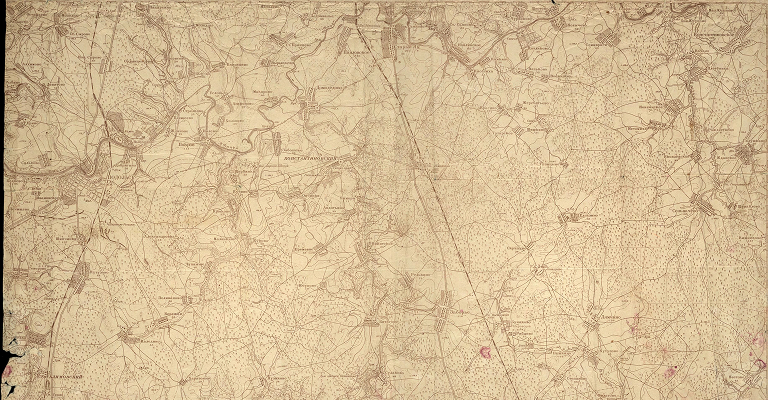
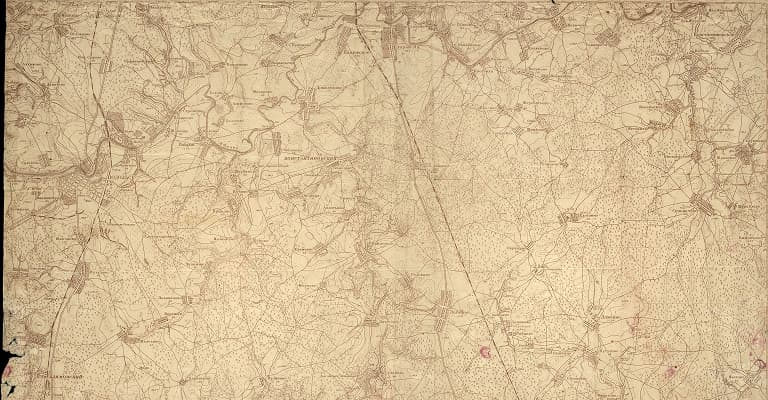
Добавляет фотографии man

diff --git a/src/shared/data/men-data.js b/src/shared/data/men-data.js
@@ -2,7 +2,6 @@ export const menData = [
   {
     id: 'c64646ce6d574a5db32e31f9615033b3',
     path: '/img/men/man01.jpg',
-    pathWebp: '/img/men/man01.webp',
     alt: 'Фотография мужчин',
     width: '260',
     height: '347'
@@ -10,7 +9,6 @@ export const menData = [
     {
     id: 'c2e92736b5e841c0b1c746814dedb324',
     path: '/img/men/man02.jpg',
-    pathWebp: '/img/men/man02.webp',
     alt: 'Фотография мужчин',
     width: '260',
     height: '347'
@@ -18,7 +16,6 @@ export const menData = [
   {
     id: '8af633251f7b47ffa271e700da486c42',
     path: '/img/men/man03.jpg',
-    pathWebp: '/img/men/man03.webp',
     alt: 'Фотография мужчин',
     width: '260',
     height: '347'
@@ -26,7 +23,6 @@ export const menData = [
   {
     id: 'ba8cbb4074164a6ba6abee0eeff742d3',
     path: '/img/men/man04.jpg',
-    pathWebp: '/img/men/man04.webp',
     alt: 'Фотография мужчин',
     width: '260',
     height: '347'
@@ -34,7 +30,6 @@ export const menData = [
   {
     id: 'c64646ce6d574a5db32e31f961504558',
     path: '/img/men/man05.jpg',
-    pathWebp: '/img/men/man05.webp',
     alt: 'Фотография мужчин',
     width: '260',
     height: '347'
@@ -42,7 +37,6 @@ export const menData = [
     {
     id: 'c64646ce6d574a5db32e31f9615fhegd8',
     path: '/img/men/man06.jpg',
-    pathWebp: '/img/men/man06.webp',
     alt: 'Фотография мужчин',
     width: '260',
     height: '347'
@@ -50,7 +44,6 @@ export const menData = [
     {
     id: 'c2e92736b5e841c0b1c746814dgfqc86',
     path: '/img/men/man07.jpg',
-    pathWebp: '/img/men/man07.webp',
     alt: 'Фотография мужчин',
     width: '260',
     height: '347'
@@ -58,7 +51,6 @@ export const menData = [
   {
     id: '8af633251f7b47ffa271e700da4gskue42',
     path: '/img/men/man08.jpg',
-    pathWebp: '/img/men/man08.webp',
     alt: 'Фотография мужчин',
     width: '260',
     height: '347'
@@ -66,11 +58,78 @@ export const menData = [
   {
     id: 'ba8cbb4074164a6ba6abee0eeff74289',
     path: '/img/men/man09.jpg',
-    pathWebp: '/img/men/man09.webp',
     alt: 'Фотография мужчин',
     width: '260',
     height: '347'
   },
-
-
+    {
+    id: 'man10',
+    path: '/img/men/man10.jpg',
+    alt: 'Фотография мужчин',
+    width: '260',
+    height: '347'
+  },
+    {
+    id: 'man11',
+    path: '/img/men/man11.jpg',
+    alt: 'Фотография мужчин',
+    width: '260',
+    height: '347'
+  },
+  {
+    id: 'man12',
+    path: '/img/men/man12.jpg',
+    alt: 'Фотография мужчин',
+    width: '260',
+    height: '347'
+  },
+  {
+    id: 'man13',
+    path: '/img/men/man13.jpg',
+    alt: 'Фотография мужчин',
+    width: '260',
+    height: '347'
+  },
+  {
+    id: 'man14',
+    path: '/img/men/man14.jpg',
+    alt: 'Фотография мужчин',
+    width: '260',
+    height: '347'
+  },
+    {
+    id: 'man15',
+    path: '/img/men/man15.jpg',
+    alt: 'Фотография мужчин',
+    width: '260',
+    height: '347'
+  },
+    {
+    id: 'man16',
+    path: '/img/men/man16.jpg',
+    alt: 'Фотография мужчин',
+    width: '260',
+    height: '347'
+  },
+  {
+    id: 'man17',
+    path: '/img/men/man17.jpg',
+    alt: 'Фотография мужчин',
+    width: '260',
+    height: '347'
+  },
+  {
+    id: 'man18',
+    path: '/img/men/man18.jpg',
+    alt: 'Фотография мужчин',
+    width: '260',
+    height: '347'
+  },
+    {
+    id: 'man19',
+    path: '/img/men/man19.jpg',
+    alt: 'Фотография мужчин',
+    width: '260',
+    height: '347'
+  },
 ]